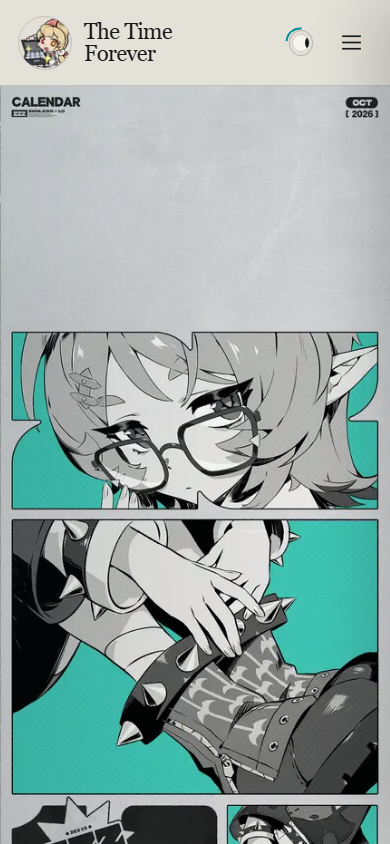
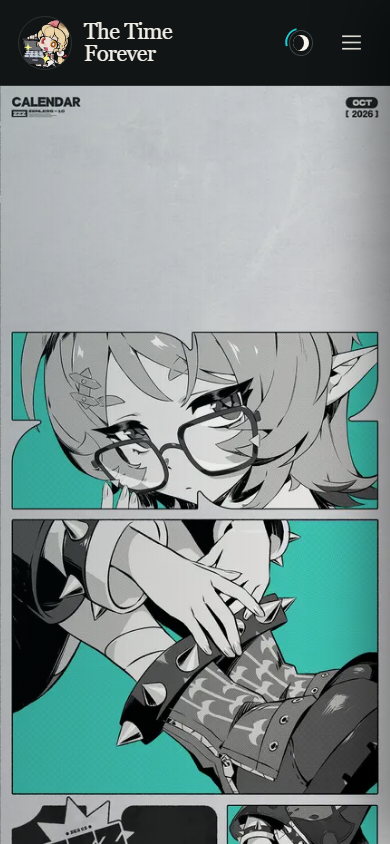
docs: record calendar automation acceptance results

Changed region(s): [[0.0, 0.0, 1.0, 1.0]]

diff --git a/docs/calendar-validation.md b/docs/calendar-validation.md
@@ -18,7 +18,7 @@
 
 ## 失败保护测试
 
-执行 `python -m unittest discover -s scripts/tests -v`，测试覆盖：
+执行 `python -m unittest discover -s scripts/tests -v`，19 项测试全部通过；GitHub Ubuntu runner 上也通过了相同的 19 项测试。测试覆盖：
 
 - 网络超时及有限 GET 重试，密码 POST 不重复提交。
 - 公告未发布、密码错误、缺少手机版。
@@ -48,13 +48,29 @@
 | 留言板 | 打开后取消 inert、焦点移至关闭按钮；关闭后恢复 inert |
 | 页面结构 | 原有图片导入、Image/getImage、srcset、CSS 与主视觉布局保持原结构 |
 
-本文底部保留实际 10 月本地预览截图。
+随后对线上站点 `https://the-time-forever.github.io` 重复页面与桌面/手机图片检查，结果一致。线上优化图片 URL 与本地构建相同，`alt` 为 2026 年 10 月，未出现横向滚动。线上主题切换从 light 变为 dark。完整 HTTP、标题、图片 URL 和视口数据见 [线上检查记录](calendar-site-check.json)。本文底部保留线上截图，手机截图为切换后的深色模式。
 
 ## GitHub Actions 与 Pages
 
 仓库权限与配置已核查：默认分支 `main`，当前无 ruleset，Pages 使用 workflow 部署。
 
-自动更新工作流、机器人提交、显式部署及线上显示的实际执行记录将在全链路运行完成后补入本节。
+| 环节 | 实际执行记录 | 结果 |
+| --- | --- | --- |
+| 实现提交 | [`64def87`](https://github.com/The-time-forever/The-time-forever.github.io/commit/64def87cfa26bb10f5f47b38b9b34b58b74acb18) | 已推送 main |
+| 首次 10 月自动更新 | [运行 38895272794](https://github.com/The-time-forever/The-time-forever.github.io/actions/runs/38895272794) | 成功；下载、19 项测试、npm ci、25 页构建、提交、推送与部署触发均通过 |
+| 机器人更新提交 | [`95f09a8`](https://github.com/The-time-forever/The-time-forever.github.io/commit/95f09a80a6b81c51a145dac2515c27addba593ef) | 仅修改两张 JPG 和 calendar.json |
+| 显式 Pages 部署 | [运行 38895354002](https://github.com/The-time-forever/The-time-forever.github.io/actions/runs/38895354002) | workflow_dispatch，构建与 deploy 两个 job 均成功 |
+| 同月第二次自动更新 | [运行 38895446998](https://github.com/The-time-forever/The-time-forever.github.io/actions/runs/38895446998) | 成功，already-updated、changed=false；未生成新提交或重复部署 |
+| 线上结果 | [首页](https://the-time-forever.github.io/) | 桌面及手机版均显示 10 月图，说明文字正确 |
+
+第二次运行后远程 main 保持 `95f09a80a6b81c51a145dac2515c27addba593ef`。机器人使用默认 `GITHUB_TOKEN` 推送后，由同一更新 job 显式调用部署工作流，已验证这一链路可以完成 Pages 发布。首次实现提交触发的旧版本部署被更新版本的并发部署取消，最终生效的是 10 月图片提交。
+
+机器人提交同步到本地后，两张 JPG 的字节 SHA-256 与 metadata 一致：
+
+```text
+desktop 438ba57781c7c556a2a015a444703099e99f6a5b4422a0a74777beedbd3613e4
+mobile  cf48d56ea7412908985e51a66e8b37ab2eaa10fa6858ebf2ce77773bdd0f5e89
+```
 
 ## 已知边界
 

diff --git a/docs/calendar-automation.md b/docs/calendar-automation.md
@@ -35,7 +35,7 @@ src/assets/images/homepage/hero-calendar-mobile.jpg
 src/data/calendar.json
 ```
 
-元数据记录成功更新年月、公告、分享入口、源图及 JPG 的 SHA-256。首页 `alt` 读取其中年月。初始记录保留现有七月图片的月份，年份留空；首次成功更新会补齐来源和校验值。
+元数据记录成功更新年月、公告、分享入口、源图及 JPG 的 SHA-256。首页 `alt` 读取其中年月。2026 年 10 月图片与完整来源记录已由自动更新工作流写入。
 
 ## 手动运行 Actions
 
